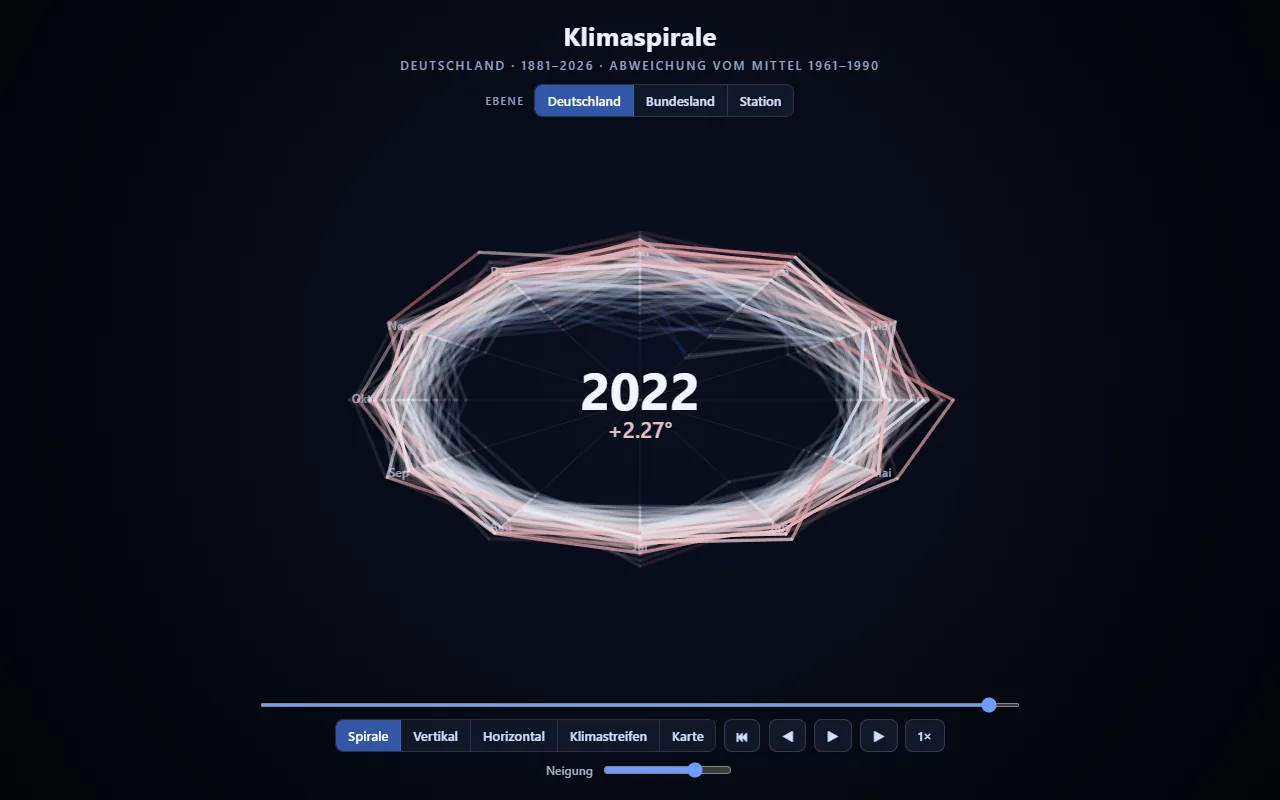
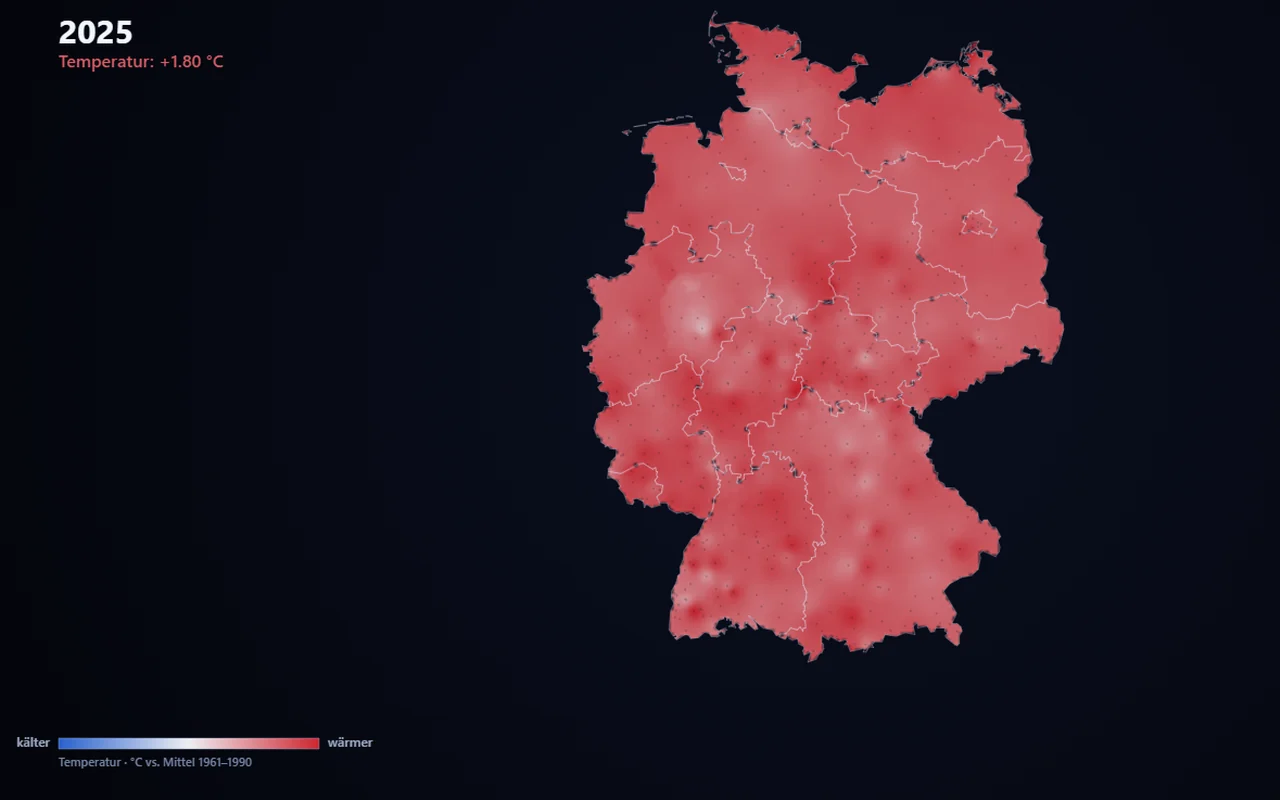
fix(fabric-empires): revert the deploy list, the gallery copy differs from upstream
I corrected this post earlier in the wrong direction. The upstream fabric-empires
repo does provision SQL, a semantic model and a report, and I described that. But
the post's own Try it block clones Fabric-Apps and runs rayfin up against the
GALLERY copy, and that copy has data.enabled: false and no fabric/README.md. The
original two-item list was right for the thing the post actually ships.

Data section says what this copy does rather than what the code can do.
Keeps the play link, which was a genuine gap.

Also swaps the Climate Spiral preview to the 2025 heat map, keeping the year and
the +1.80 C label: the bare map is prettier and says nothing. Crop starts at x=42
because 60 sliced the k off the 'kaelter' legend.

Changed region(s): [[0.2812, 0.0312, 0.8438, 0.8438], [0.0, 0.875, 0.7812, 0.9688], [0.0312, 0.0, 0.1875, 0.0938]]

diff --git a/docs/gallery-posts/fabric-empires.md b/docs/gallery-posts/fabric-empires.md
@@ -30,21 +30,12 @@ Explore a procedurally generated hex map, found cities, work tiles for four reso
 ## What it deploys into your workspace
 
 - Entra sign-in (Fabric identity)
-- Fabric SQL database
-- App backend, the data API the game writes through
-- Direct Lake semantic model over that database
-- Power BI report on top of it
 - Static web app
 
 ## Data
 
-The exam skills outlines are public.
-
-The two builds differ, and the difference matters. The **public playable build** has no
-backend and nobody signed in, so nothing leaves your browser. The **workspace deployment**
-does record play: a row per finished game and a row per question attempt, including whether
-the answer was correct, written to the Fabric SQL database it provisions. That is what feeds
-the Power BI report, and it is your own workspace, but it is stored rather than discarded.
+The exam skills outlines are public. This copy deploys without a data service, so no
+score and no attempt is stored anywhere: nothing you do leaves your browser.
 
 ## Try it
 
